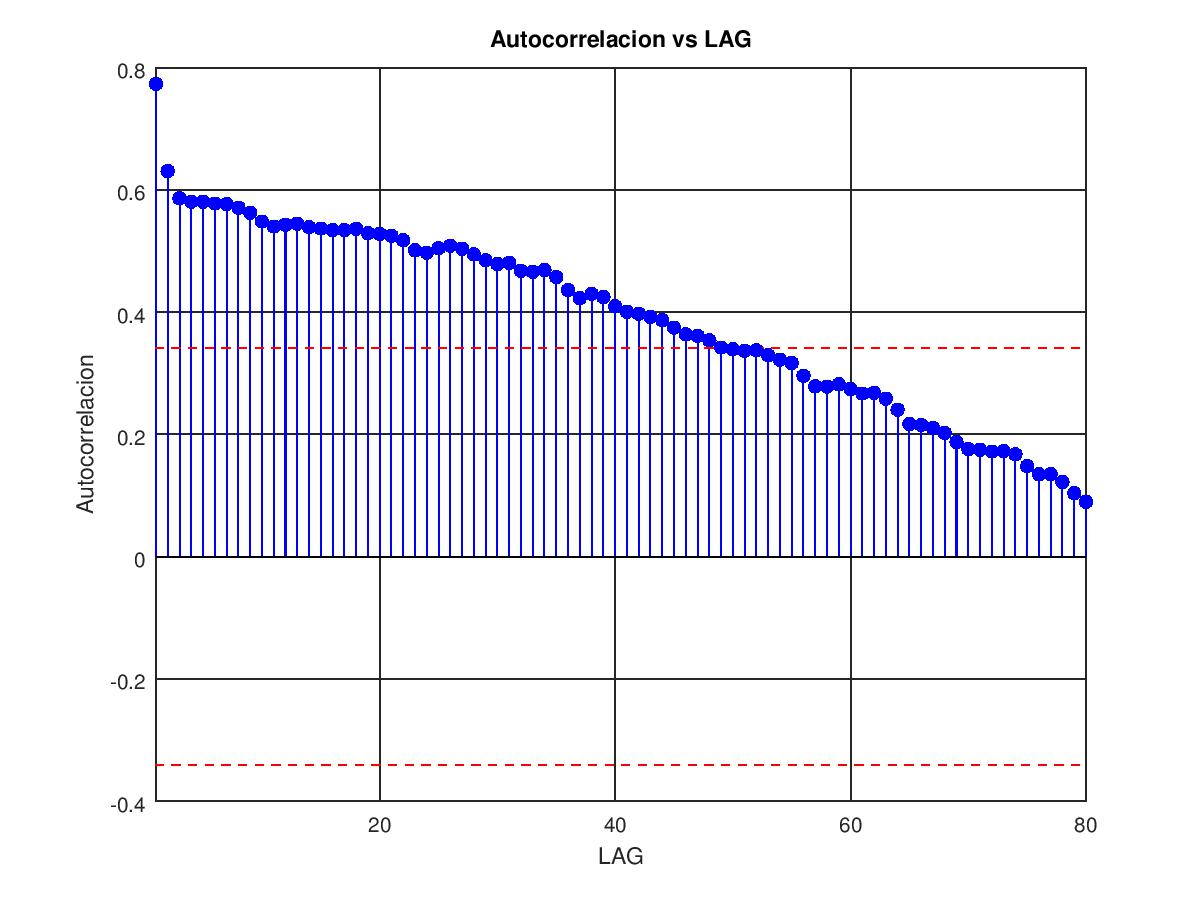
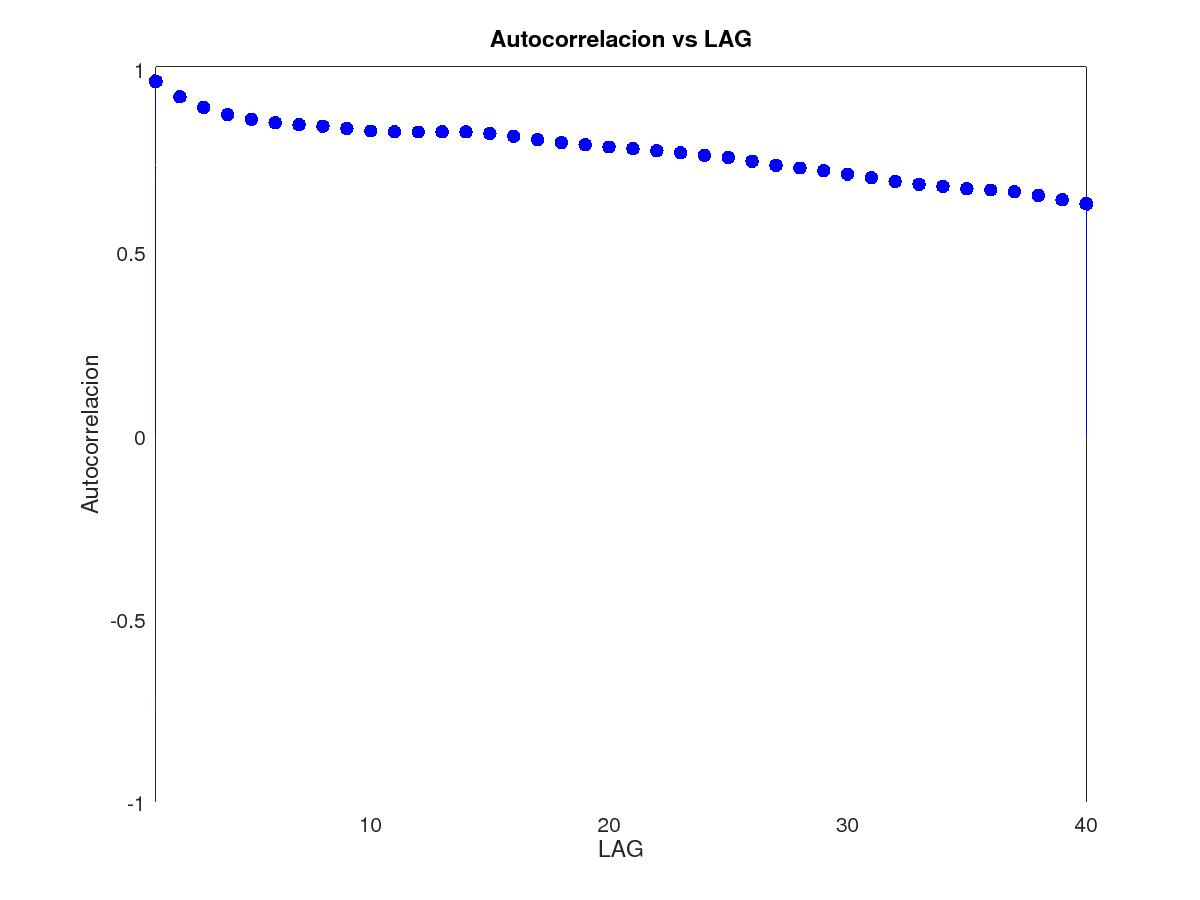
parametros svm

diff --git a/main.m b/main.m
@@ -24,10 +24,10 @@ lag=[64];
 l = 2;
 %==============================================================================%
 %Grafico ACF  
-%ACF(data,lag);
+ACF(data,40);
 %==============================================================================%
 lag=[62,63,64,65];
-modelo_arr(data,train_size,h,l,lag);
+%modelo_arr(data,train_size,h,l,lag);
 
 %modelo_arx(data,train_size,h,l,lag);
 

diff --git a/modelo_svm.m b/modelo_svm.m
@@ -1,10 +1,10 @@
 function [modelo]= modelo_svm(data,train_size,h,l,lag)
-  stepGama=4;
-  stepSigma=4;
-  a=1;
-  b=2;
-  baseGama=2;
-  baseSigma=2;
+  stepGama=20;
+  stepSigma=30;
+  a=60;
+  b=120;
+  baseGama=10;
+  baseSigma=10;
   
   mejor_metrica.mnsc =-9999999;
   mejor_metrica.mae = -999999;
